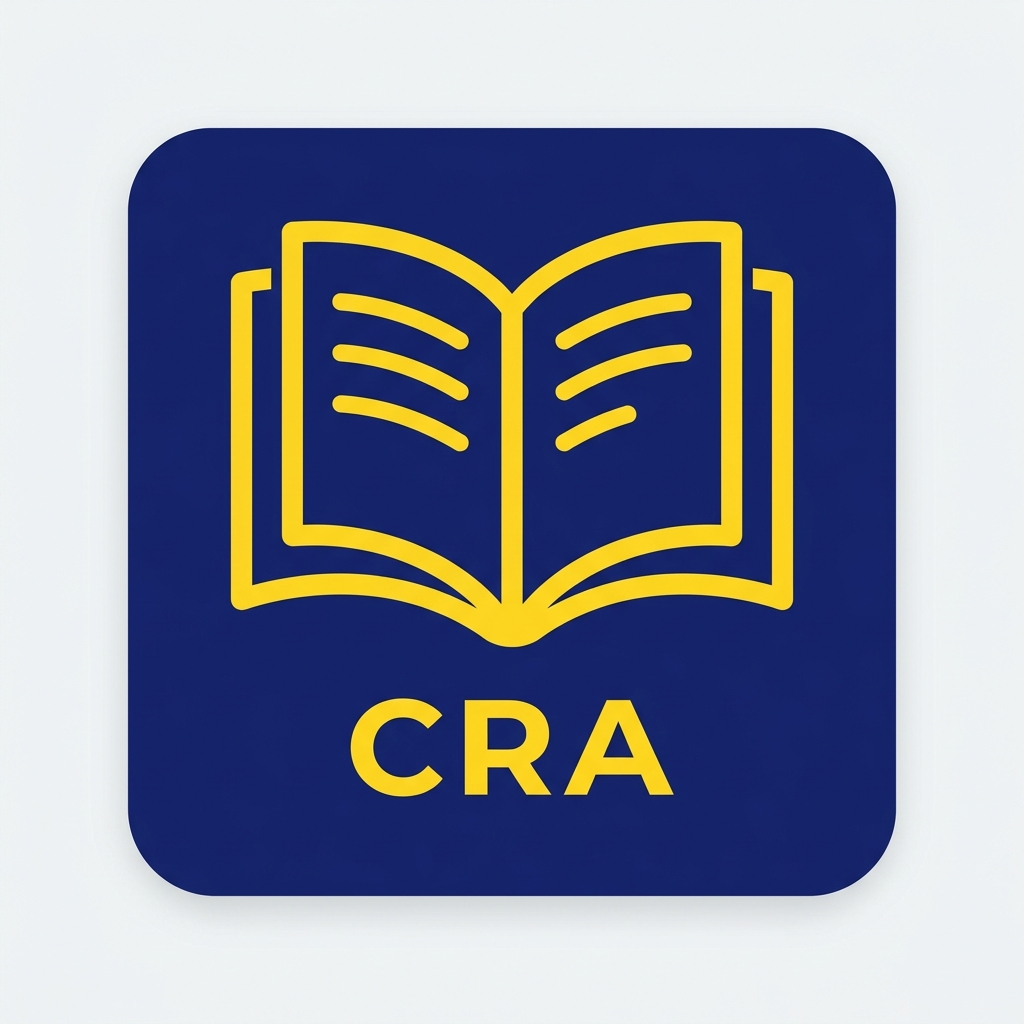
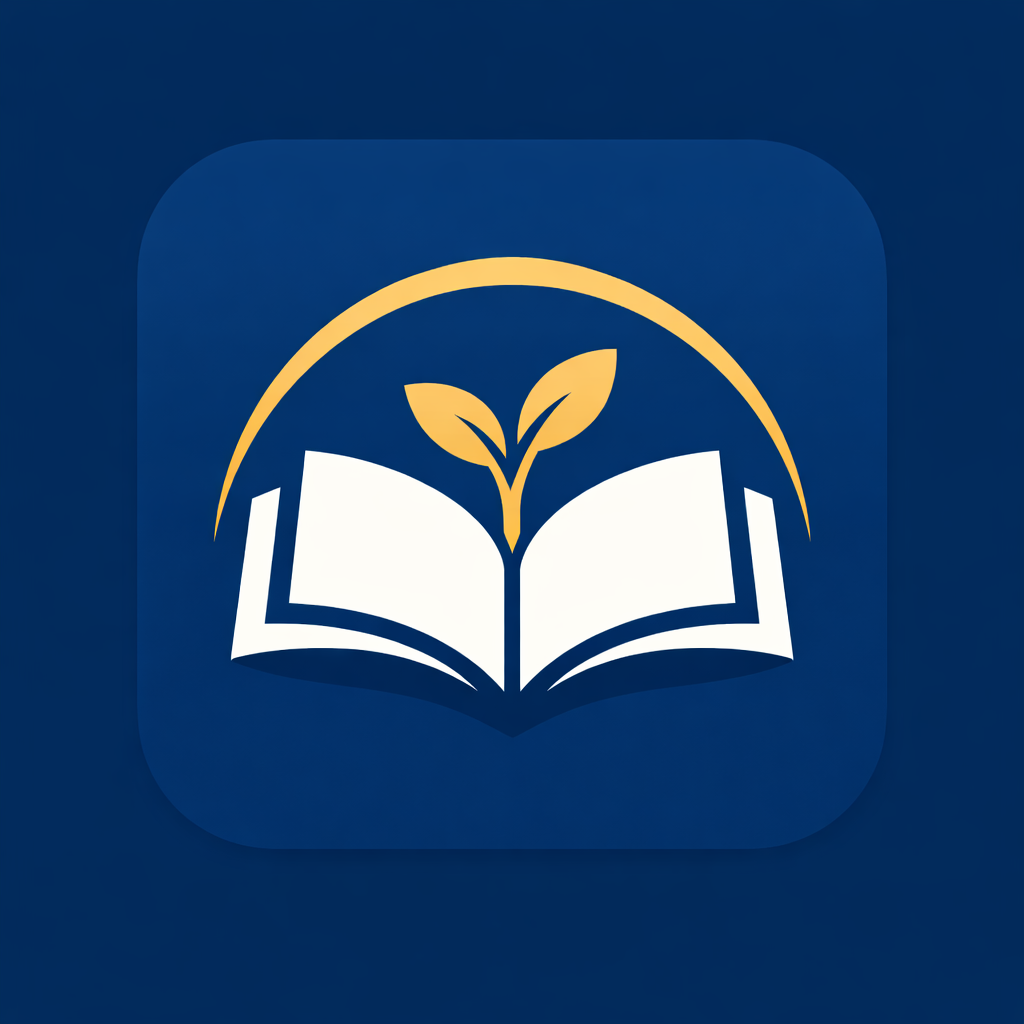
Add files via upload

diff --git a/frontend/app.js b/frontend/app.js
@@ -1,4 +1,4 @@
-const API_BASE_URL = 'http://127.0.0.1:8088/api';
+const API_BASE_URL = '/api';
 
 // --- Fetch Interceptor para JWT ---
 const originalFetch = window.fetch;

diff --git a/frontend/login.html b/frontend/login.html
@@ -44,7 +44,7 @@
     </div>
 
     <script>
-        const API_BASE_URL = 'http://127.0.0.1:8088/api';
+        const API_BASE_URL = '/api';
 
         // Redirigir al home si ya está logueado
         if (localStorage.getItem('jwt_token')) {